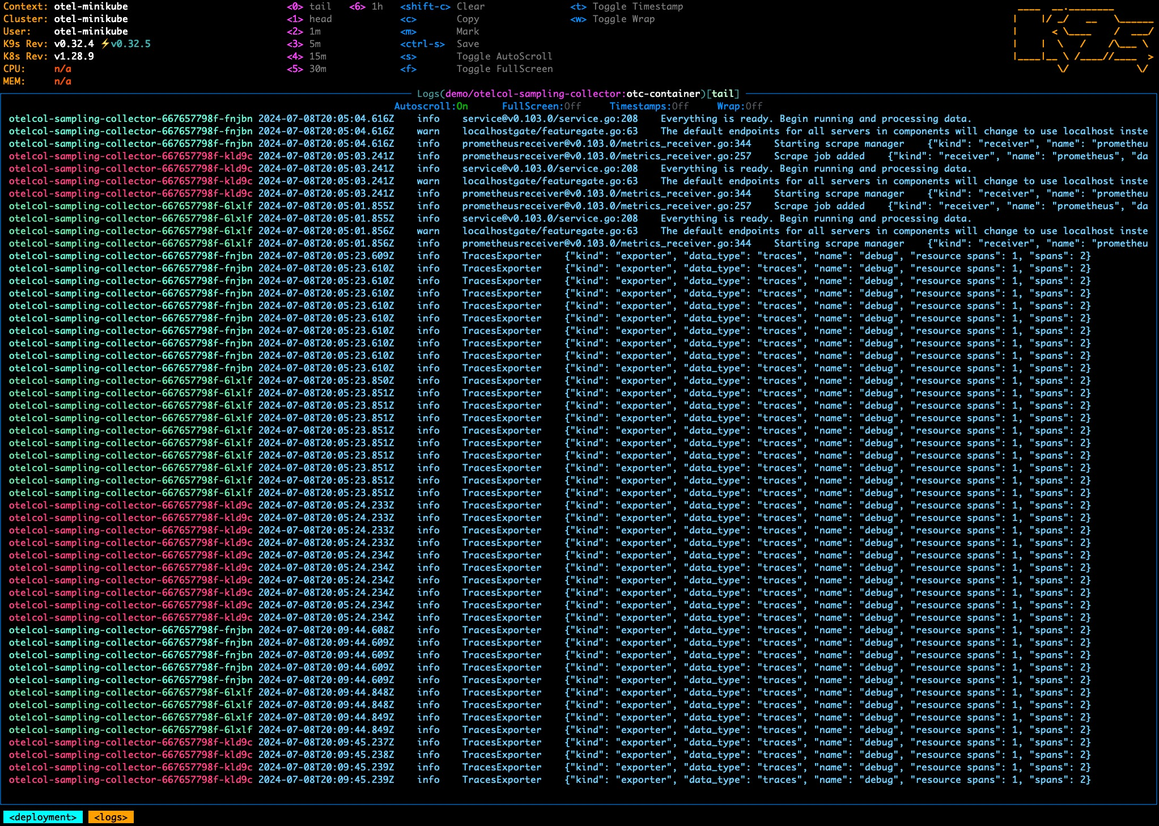
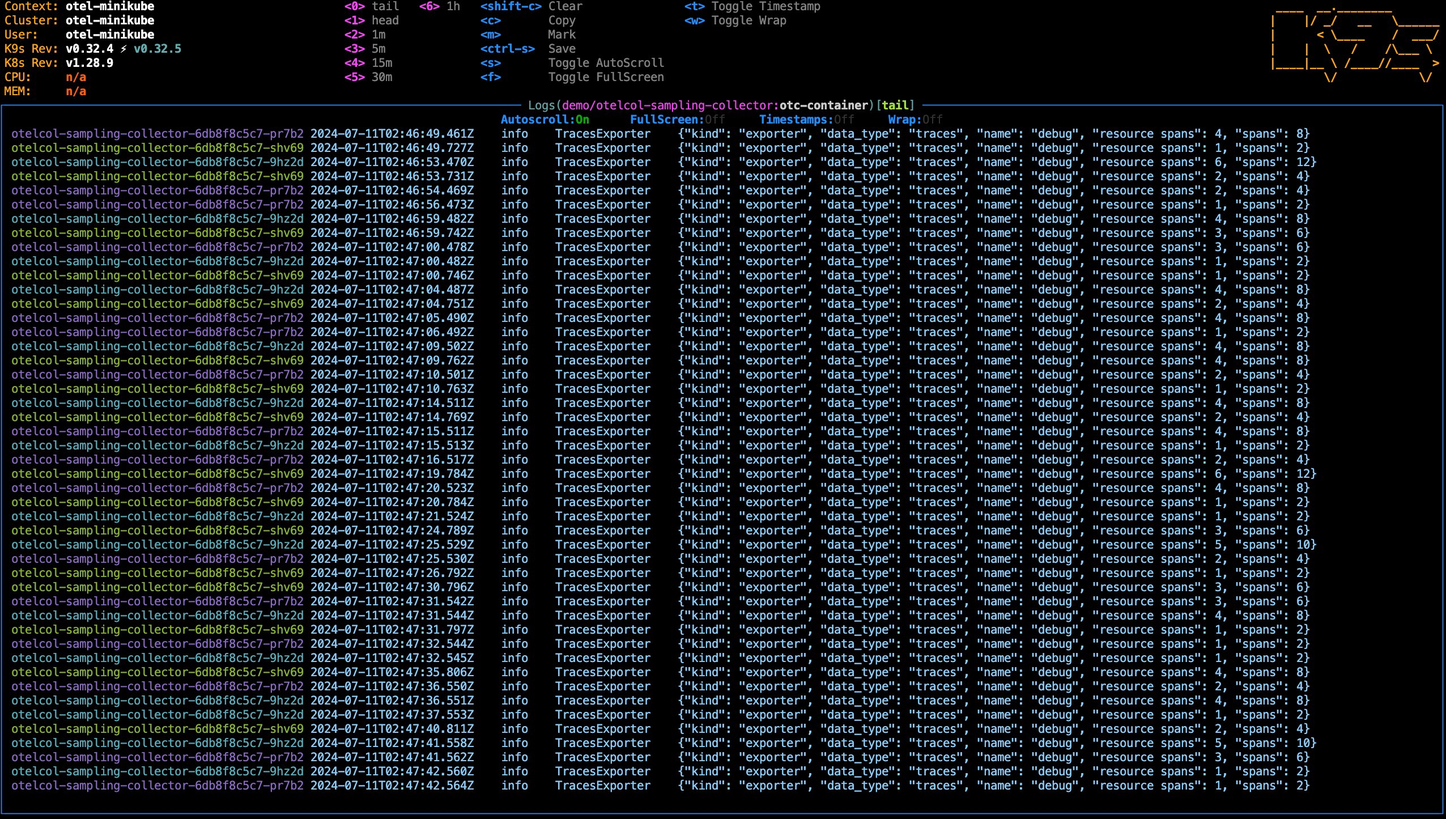
updates

diff --git a/other-examples/tail-sampling/README.md b/other-examples/tail-sampling/README.md
@@ -1,6 +1,6 @@
 # Tail-Sampling with OpenTelemetry Collector
 
-This simple example demonstrates Tail Sampling with the [OpenTelemetry collector](https://opentelemetry.io/docs/collector/), by using the [Tail Sampling Processor](https://github.com/open-telemetry/opentelemetry-collector-contrib/blob/main/processor/tailsamplingprocessor/README.md).  Traces are sampled based on the [defined sampling policy](https://linksomethinghere) and sent to New Relic via OTLP.
+This example demonstrates Tail Sampling with the [OpenTelemetry collector](https://opentelemetry.io/docs/collector/) by using the [Tail Sampling Processor](https://github.com/open-telemetry/opentelemetry-collector-contrib/blob/main/processor/tailsamplingprocessor/README.md).  Traces are sampled based on the [defined sampling policy](https://linksomethinghere) and sent to New Relic via OTLP.
 
 
 ```mermaid
@@ -37,7 +37,7 @@ columns 1
 * You need to have a Kubernetes cluster, and the kubectl command-line tool must be configured to communicate with your cluster. Docker desktop [includes a standalone Kubernetes server and client](https://docs.docker.com/desktop/kubernetes/) which is useful for local testing.
 * [A New Relic account](https://one.newrelic.com/)
 * [A New Relic license key](https://docs.newrelic.com/docs/apis/intro-apis/new-relic-api-keys/#license-key)
-* [Telemetrygen] (https://github.com/open-telemetry/opentelemetry-collector-contrib/tree/cmd/telemetrygen/v0.88.1/cmd/telemetrygen)
+* [Telemetrygen](https://github.com/open-telemetry/opentelemetry-collector-contrib/tree/cmd/telemetrygen/v0.88.1/cmd/telemetrygen)
 
 
 ## Set up your cluster
@@ -48,14 +48,14 @@ As a prerequisite, you'll need to install both [Cert Manager](https://cert-manag
 
 Install [Cert Manager](https://cert-manager.io/) with the following command:
 
-```
+```shell
 kubectl apply -f https://github.com/cert-manager/cert-manager/releases/download/v1.15.1/cert-manager.yaml
 ```
 
 ### OpenTelemetry Operator
 
 Install the [OpenTelemetry Operator for K8s](https://opentelemetry.io/docs/kubernetes/operator/) with the following command: 
-```
+```shell
 kubectl apply -f https://github.com/open-telemetry/opentelemetry-operator/releases/latest/download/opentelemetry-operator.yaml
 ```
 
@@ -83,13 +83,13 @@ opentelemetry-operator-system   opentelemetry-operator-controller-manager-54c987
 
 In order for the OTel Collectors to authenticate successfully with New Relic's OTLP endpoint, you'll need to store your New Relic ingest license key in a Kubernetes Secret within the `demo` namespace.  Use the following command to create both the namespace and the secret:
 
-```
+```shell
 kubectl create ns demo && kubectl create secret generic newrelic-license-key --from-literal=licensekey=<YOUR NR LICENSE KEY> -n demo
 ```
 
 ### Install OpenTelemetry Collectors
 
-```
+```shell
 kubectl apply -f lb.yaml -n demo
 kubectl apply -f sampling.yaml -n demo
 ```
@@ -98,35 +98,55 @@ kubectl apply -f sampling.yaml -n demo
 
 You'll need to utilize port forwarding to open a port on your local machine to the OTel collector running in your cluster.  The following command will open up port 4317 on your localhost, which is what the `telemetrygen` tool uses by default.
 
-```
+```shell
 kubectl port-forward svc/otelcol-loadbalancer-collector -n demo 4317
 ```
 
 Use `ctrl + c` to cancel out of the port forward session.
 
-### Telemetry
+### Generate Traces
 
+The `loagen.sh` shell script uses the `telemetrygen` tool to generate traces.  Ensure that you have `telemetrygen` installed on your machine and then run the loadgen script.
+
+```shell
+./loadgen.sh
+```
+
+If working successfully, you should see some output in your terminal that resembles the following:
 
 ```
-telemetrygen traces --traces 100 --otlp-insecure --otlp-attributes='recipe="newrelic-tail-sampling"' --otlp-attributes='vip="true"'
-telemetrygen traces --traces 100 --otlp-insecure --otlp-attributes='recipe="newrelic-tail-sampling"' --otlp-attributes='vip="false"'
+...
+2024-07-10T21:56:49.469-0500    INFO    grpc@v1.64.0/balancer_wrapper.go:103    [core][Channel #1]Channel switches to new LB policy "pick_first"        {"system": "grpc", "grpc_log": true}
+2024-07-10T21:56:49.469-0500    INFO    grpc@v1.64.0/balancer_wrapper.go:170    [core][Channel #1 SubChannel #2]Subchannel created      {"system": "grpc", "grpc_log": true}
+2024-07-10T21:56:49.469-0500    INFO    grpc@v1.64.0/clientconn.go:535  [core][Channel #1]Channel Connectivity change to CONNECTING     {"system": "grpc", "grpc_log": true}
+2024-07-10T21:56:49.469-0500    INFO    grpc@v1.64.0/clientconn.go:1210 [core][Channel #1 SubChannel #2]Subchannel Connectivity change to CONNECTING    {"system": "grpc", "grpc_log": true}
+2024-07-10T21:56:49.469-0500    INFO    grpc@v1.64.0/clientconn.go:1326 [core][Channel #1 SubChannel #2]Subchannel picks a new address "[::1]:4317" to connect  {"system": "grpc", "grpc_log": true}
+2024-07-10T21:56:49.481-0500    INFO    grpc@v1.64.0/clientconn.go:1210 [core][Channel #1 SubChannel #2]Subchannel Connectivity change to READY {"system": "grpc", "grpc_log": true}
+2024-07-10T21:56:49.481-0500    INFO    grpc@v1.64.0/clientconn.go:535  [core][Channel #1]Channel Connectivity change to READY  {"system": "grpc", "grpc_log": true}
+2024-07-10T21:56:49.525-0500    INFO    grpc@v1.64.0/clientconn.go:535  [core][Channel #1]Channel Connectivity change to SHUTDOWN       {"system": "grpc", "grpc_log": true}
+2024-07-10T21:56:49.525-0500    INFO    grpc@v1.64.0/resolver_wrapper.go:100    [core][Channel #1]Closing the name resolver     {"system": "grpc", "grpc_log": true}
+2024-07-10T21:56:49.525-0500    INFO    grpc@v1.64.0/balancer_wrapper.go:135    [core][Channel #1]ccBalancerWrapper: closing    {"system": "grpc", "grpc_log": true}
+2024-07-10T21:56:49.525-0500    INFO    grpc@v1.64.0/clientconn.go:1210 [core][Channel #1 SubChannel #2]Subchannel Connectivity change to SHUTDOWN      {"system": "grpc", "grpc_log": true}
+2024-07-10T21:56:49.525-0500    INFO    grpc@v1.64.0/clientconn.go:1154 [core][Channel #1 SubChannel #2]Subchannel deleted      {"system": "grpc", "grpc_log": true}
+2024-07-10T21:56:49.525-0500    INFO    grpc@v1.64.0/clientconn.go:1156 [core][Channel #1]Channel deleted       {"system": "grpc", "grpc_log": true}
+2024-07-10T21:56:49.525-0500    INFO    traces/traces.go:64     stopping the exporter
 ```
 
 ## Viewing your data
 
-To review your test data in New Relic, navigate to "New Relic -> Query Your Data". To list the Spans reported, query for:
+After a minute or so, you'll start to see Spans populate in your New Relic account.  The following NRQL query can be used to validate that your setup is working and that a smaller percentage of traces are showing up for the `non-critical-service` compared to the `critical-service`.
 
-```
-FROM Span select count(*) facet vip since 10 minutes ago TIMESERIES 
+```shell
+from Span select uniqueCount(trace.id) where recipe = 'newrelic-tail-sampling' where service.name in ('critical-service', 'non-critical-service') facet service.name TIMESERIES 1 minute since 15 minutes ago
 ```
 
-![k9s](./images/k9s.jpg)
+Notice that the number of traces for the `critical-service` is much higher than `non-critical-service`.  This is tail sampling via the OpenTelemetry Collector in action!
 
 ![nrql](./images/nrql.jpg)
 
-
 See [get started with querying](https://docs.newrelic.com/docs/query-your-data/explore-query-data/get-started/introduction-querying-new-relic-data/) for additional details on querying data in New Relic.
 
-## Additional notes
+You can also validate that load balancing is working in your cluster by looking at the `otel-sampling-collector-*` pod logs. Take note that multiple pod names are all exporting traces. A tool like [k9s](https://k9scli.io/) can make this a breeze if you're not a `kubectl` jedi.
 
-The prometheus receiver includes `service.name` and `service.instance.id` resource attributes derived from job name and target configured in `.receivers.prometheus.config.scrape_configs`. As documented [here](https://docs.newrelic.com/docs/more-integrations/open-source-telemetry-integrations/opentelemetry/best-practices/opentelemetry-best-practices-resources/#services), New Relic considers any data with `service.name` as a service despite the fact that not all prometheus data sources are services. As a result, you can find a `confluent` entity under "New Relic -> All Entities -> Services - OpenTelemetry", although the panels will not contain data because the scraped metrics do not represent APM data.
+![k9s](./images/k9s.jpg)
+
